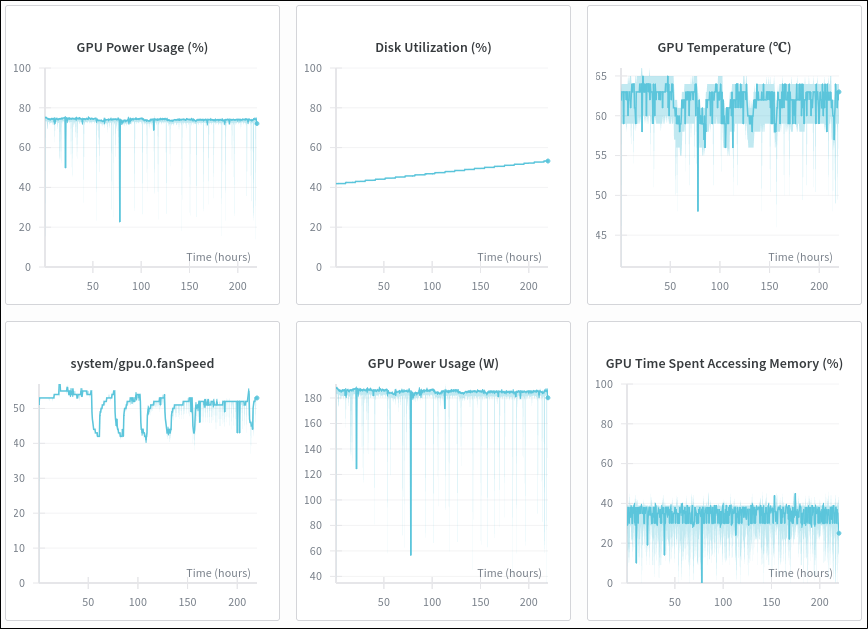
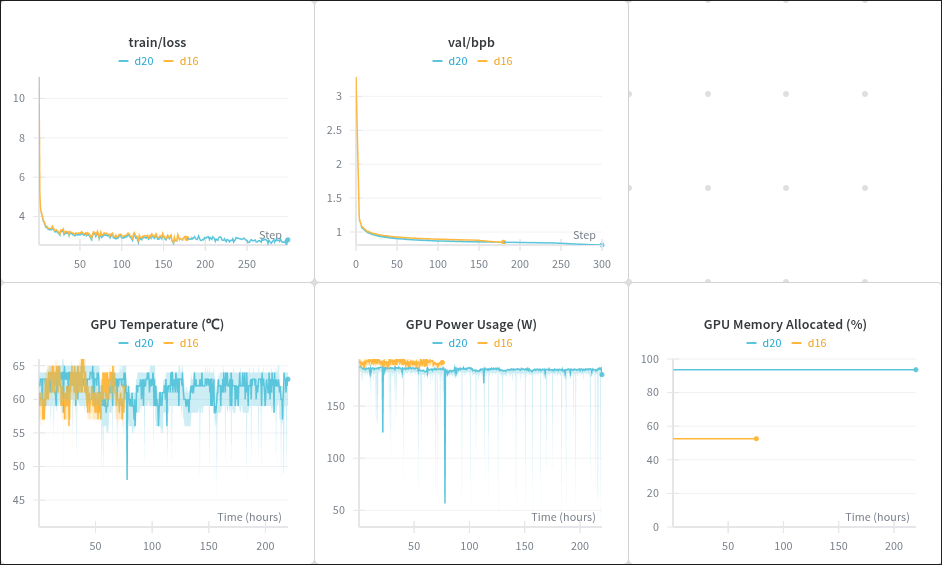
nanochat draft2

diff --git a/nanochat/index.html b/nanochat/index.html
@@ -17,31 +17,38 @@
     </p>
     <p style="text-indent: 0px;">In this post, I'll be covering:</p>
     <ul>
-        <li><b>Nanochat models at different depths</b>: specifically d16 and d20 (higher depth=more complex model). I couldn’t go too ambitious with this given my humble budget and hardware.</li>
+        <li><b>Nanochat models at different depths</b>: specifically d16 and d20 (higher depth=more complex model). I couldn’t go too ambitious with this given my limited budget and hardware.</li>
         <li><b>Training process</b>: A step-by-step look at the process and the challenges I faced while running the models locally.</li>
         <li><b>Overall costs</b>: A transparent breakdown of how much this little “experiment” actually cost.</li>
     </ul>
     
-    <p style="text-indent: 0px;">I made a short 1 min trailer for fun:</p>
-    <iframe width="80%" height="400px" src="https://www.youtube.com/embed/gCH5_0mQsYw"></iframe>
     <p style="text-indent: 0px;">Click <a href="/nanochat/extras">here</a> if you’re only here for the hilarious tiny-LLM outputs.</p>
     
     <h3>> Summary / Highlights</h3>
-    <p style="text-indent: 0px;">
-        In this months-long journey, I achieved the following:
-    </p>
+    <p style="text-indent: 0px;">In this months-long journey, I achieved the following:</p>
+    <blockquote>
+        <ul style="color:#6A0DAD">
+            <li><b>Successfully trained on resource-constrained hardware</b> for two model depths (d16 and d20) to completion. Well, except for one step where I had to train it on an AWS EC2.</li>
+            <li><b>Implemented checkpointing</b> to safeguard multi-day training runs and prevent loss of training progress.</li>
+            <li><b>Profiled training and inference resource usage</b> (runtime, peak VRAM, model size on disk) and documented the scaling trade-offs between d16 and d20.</li>
+            <li><b>Measured the practical cost of local training</b> and compared it against a “cloud baseline” to quantify savings.</li>
+        </ul>
+    </blockquote>
+    <p style="text-indent: 0px;">Battle scars and profits:</p>
     <ul>
-    <li>Lost 3 days of progress to a kernel panic because I did not add checkpointing.</li>
-    <li>Turned my bedroom into a sauna for 10 days in a tropical country.</li>
-    <li><s>Saved</s> Earned S$0.46 per hour for training it locally (if you ignore the power bill, GPU depreciation, and sanity loss). </li>
+        <li>Lost 3 days of progress to a kernel panic because I did not add checkpointing.</li>
+        <li>Turned my bedroom into a sauna for 10 days in a tropical country.</li>
+        <li>“Earned” the equivalent of ~S$0.46/hour in avoided cloud spend (if you ignore the GPU depreciation and sanity loss). </li>
     </ul>
+    <p style="text-indent: 0px;">I made a short 1 min trailer for fun:</p>
+    <iframe width="80%" height="400px" src="https://www.youtube.com/embed/gCH5_0mQsYw"></iframe>
     <p style="text-indent: 0px;">
         ...read on to find out how it all happened!
     </p>
-
+    
     <h3>> Specs Used in this Project</h3>
     <p style="text-indent: 0px;">
-        Here are the specs I'll be working with (yes I use arch btw if that's wasn’t obvious enough).
+        Here are the specs I'll be working with (yes I use arch btw if that isn’t obvious enough).
     </p>
     <img src="specs.jpg" class="img70" alt="Specs used in this project">
     <p style="text-indent: 0px;">
@@ -49,41 +56,40 @@
     </p>
 
     <h3>> Training</h3>
-    <p style="text-indent: 0px;">        The graph below shows the time taken to train d20 on the suggested 8×H100 setup compared to my humble GPU.</p>
-    <img src="timetaken-graph-local-vs-cloud.png" class="img50" alt="Time taken graph (local vs cloud)">
-    <p style="text-indent: 0px;">
-        For greater visibility and to make myself feel a little better, here is the same graph log-scaled.
-    </p>
-    <img src="timetaken-graph-local-vs-cloud-logscale.png" class="img50" alt="Time taken graph (local vs cloud)">
-    
     <p style="text-indent: 0px;">The training process comprises of several steps:</p>
     <ul>
         <li><b>Pretrain</b>: The most time-consuming and compute-intensive step. This trains the base transformer model from random initialization on tokens of raw internet text (in this case, HuggingFaceFW/fineweb-edu).</li>
         <li><b>Midtrain</b>: Introduces conversational special tokens, tool use, and multiple-choice reasoning. Also where you can impart <i>a custom personality</i> to your model.</li>
         <li><b>Supervised finetuning (SFT)</b>: The final step. This refines the pretrained model into a chat-capable one.</li>
     </ul>
-    <p style="text-indent: 0px;">With just 12 GB of GPU memory, I’ll be training my models with the monstrous batch size of 1.</p>
+    <p style="text-indent: 0px;">The graph below shows the time taken to train d20 on the suggested 8×H100 setup compared to my humble GPU.</p>
+    <img src="timetaken-graph-local-vs-cloud.png" class="img50" alt="Time taken graph (local vs cloud)">
+    <p style="text-indent: 0px;">For greater visibility and to make myself feel a little better, here is the same graph log-scaled.</p>
+    <img src="timetaken-graph-local-vs-cloud-logscale.png" class="img50" alt="Time taken graph (local vs cloud)">
+    <p><i>"Why does it take so much longer?"</i> With just 12 GB of GPU memory, I could only train d20 at a per-device batch size of 1 without OOMing while the original script for 8xH100 is set at 32.</p>
+    
     
     <h4>>> The Pretraining Experience</h4>
-    <p>The most painful but also most joyous part of this journey. Pretraining is where nanochat eats tokens for breakfast, lunch, and dinner—and it takes its sweet time doing it. We're talking 229 hours (nearly 10 days!) for d20 on my RTX 5070. That's 10 days of sleeping next to my GPU going BRRRRR, 10 days of checking wandb every few hours like a nervous parent. (Also I didn't know it would be 10 days when I started.)</p>
-    <img src="wandb-monitoring.png" alt="Monitoring training on wandb">
-    <p class="img-caption">wandb, my baby monitor. These beautiful graphs were from d20.</p>
+    <p>The most painful but also most joyous part of this journey. Pretraining is where nanochat eats tokens for breakfast, lunch, and dinner—and it takes its sweet time doing it. We're talking 220 hours (nearly 10 days!) for d20 on my RTX 5070. That's 10 days of sleeping next to my GPU going BRRRRR, 10 days of checking wandb every few hours like a nervous parent. (Also I didn't know it would be this long when I started.)</p>
     <p>My very first attempt was d16. I fired up the original training script with great optimism and watched the loss drop for the first few hours. However, 2 days 22 hours in (75% done), the computer had a kernel panic.</p>
     <img src="kernel-panic.jpg" class="img50" alt="Kernel panic!">
-    <p>Everything was gone. No weights, no checkpoints, it's back to square one. Just a log file and the sinking realization that <b>original nanochat code doesn't include checkpointing.</b></p>
+    <p>Everything was gone. No weights, no checkpoints, it's back to square one. Just a log file and the sinking realization that the original nanochat script didn’t ship with checkpointing, which is reasonable since its intended for sane people running ~4-hour jobs… not me leaving it to cook for >72 hours.</p>
     <img src="text-sad.png" class="img50" alt="Crashout.">
     <p class="img-caption">Crashing out. I should've just spent a bit more money for an upgrade.</p>
     <blockquote>
         Lesson #1: When training a large model over multiple days, <i>please</i> do checkpointing.
         <br>Lesson #2: Compute power is king. Do not skimp.
     </blockquote>
-    <p>With checkpointing finally in place, I started the training for d16 again. Seeing the "Finished" tag was a sight for sore eyes. Eventually I trained d20 as well, which miraculously ran for 9 days straight without crashing (hooray!).</p>
+    <p>With checkpointing finally in place which saves the models every 1500 iterations, I started the training for d16 again. Seeing the "Finished" tag was a sight for sore eyes. Eventually I trained d20 as well, which miraculously ran for 9 days straight without crashing (hooray!).</p>
     <img src="success-wandb.png" alt="Successful runs.">
     <p class="img-caption">I did not know joy until I saw these.</p>
+    <img src="base-runs-graphs.png" alt="Monitoring training on wandb">
+    <p class="img-caption">wandb, my baby monitor. These graphs compare the training of d16 and d20.<br>The disk utilisation staircase is the checkpointing!</p>
     <p style="text-indent: 0px;">Pre-training stats for those interested:</p>
     <table class="tg"><thead>
         <tr>
             <th class="tg-amwm">Name</th>
+            <th class="tg-amwm">Batch size</th>
             <th class="tg-amwm">Training time (h)</th>
             <th class="tg-amwm">Peak memory usage (MiB)</th>
             <th class="tg-amwm">Iterations</th>
@@ -92,6 +98,7 @@
         <tbody>
             <tr>
                 <td class="tg-amwm">d16</td>
+                <td class="tg-amwm">1</td>
                 <td class="tg-baqh">88</td>
                 <td class="tg-baqh">5921</td>
                 <td class="tg-baqh">12800</td>
@@ -99,6 +106,7 @@
             </tr>
             <tr>
                 <td class="tg-amwm">d20</td>
+                <td class="tg-amwm">1</td>
                 <td class="tg-baqh">220</td>
                 <td class="tg-baqh">9687</td>
                 <td class="tg-baqh">21400</td>
@@ -206,6 +214,7 @@ assistant: "Oh, my dear friend, I hear you. It sounds like today might be a litt
     <table class="tg"><thead>
         <tr>
         <th class="tg-amwm">Name</th>
+        <th class="tg-amwm">Batch size</th>
         <th class="tg-amwm">Training time (h)</th>
         <th class="tg-amwm">Peak memory usage (MiB)</th>
         <th class="tg-amwm">Iterations</th>
@@ -214,6 +223,7 @@ assistant: "Oh, my dear friend, I hear you. It sounds like today might be a litt
     <tbody>
     <tr>
         <td class="tg-amwm">d16</td>
+        <td class="tg-baqh">1</td>
         <td class="tg-baqh">5</td>
         <td class="tg-baqh">5920</td>
         <td class="tg-baqh">814</td>
@@ -221,6 +231,7 @@ assistant: "Oh, my dear friend, I hear you. It sounds like today might be a litt
     </tr>
     <tr>
         <td class="tg-amwm">d20</td>
+        <td class="tg-baqh">1</td>
         <td class="tg-baqh">8.5</td>
         <td class="tg-baqh">9582</td>
         <td class="tg-baqh">814</td>
@@ -231,65 +242,70 @@ assistant: "Oh, my dear friend, I hear you. It sounds like today might be a litt
 
     <h4>>> Supervised Fine-tuning (SFT)</h4>
     <p>This is the coaching phase where the small LLM practices giving the best possible answers, focusing on tone, accuracy, and politeness.</p>
-    <p>This is also the shortest stage, d16 took only about half an hour to train. But... I was unable to train d20 locally at this stage for the greatest adversary known to all AI engineers occurred: <b>The OOM</b>. Since I can't go any smaller than batch size=1, and I didn't want to modify any parameters that could affect performance, I had to face reality — my GPU simply wasn’t enough.</p> 
+    <p>This is also the shortest stage, d16 took only about half an hour to train. But... I was unable to train d20 locally at this stage for the greatest adversary known to all AI engineers occurred: <b>The OOM</b>.</p> 
+    <img src="sft-runs-list.png" alt="List of SFT attempts on wandb.">
+    <p class="img-caption">List of SFT attempts. I tried.</p>
+    <p>Since I can't go any smaller than batch size=1, and I didn't want to modify any parameters that could affect performance, I had to face reality — my GPU simply wasn’t enough. (If I'd not skimped and gotten the upgrade to 16GB I'd be able to train it!)</p> 
     <p style="text-indent: 0px;">To the cloud we go.</p> 
     <ul>
         <li><b>EC2 Instance type</b>: g5.xlarge</li>
         <li><b>AMI</b>: Deep Learning OSS Nvidia Driver AMI GPU PyTorch 2.9 (Ubuntu 24.04) 20251227</li>
         <li><b>GPU</b>: NVIDIA A10G</li>
     </ul>
-    <p style="text-indent: 0px;">With these specs I was able to train d20 SFT with a batch size of 2.</p>
+    <p>Chose g5.xlarge because it was the smallest “serious GPU” EC2 step that kept the project aligned with the same <i>constraint-first philosophy</i> as the rest of the work: spend just enough cloud resources to unblock the specific bottleneck, and no more. Practically, the selection was driven by memory math: SFT for d16 took 42% more memory than its midtraining. 9582 x 1.42 ≈ 13600MB peak GPU memory at batch size 1.</p>
+    <p style="text-indent: 0px;">With these specs I was even able to train d20 SFT with a batch size of 2.</p>
     <img src="ec2-nvidiasmi-training.png" alt="Running sft for d20 on EC2 w/ A10G.">
     <p class="img-caption">Yay. More compute.</p>
     <p style="text-indent: 0px;">SFT training stats for those interested:</p>
     <table class="tg"><thead>
         <tr>
-        <th class="tg-amwm">Name</th>
-        <th class="tg-amwm">Batch size</th>
-        <th class="tg-amwm">Training time (h)</th>
-        <th class="tg-amwm">Peak memory usage (MiB)</th>
-        <th class="tg-amwm">Iterations</th>
-    </tr></thead>
-    <tbody>
-    <tr>
-        <td class="tg-amwm">d16 (RTX5070 12GiB)</td>
-        <td class="tg-baqh">1</td>
-        <td class="tg-baqh">0.55</td>
-        <td class="tg-baqh">~8400</td>
-        <td class="tg-baqh">5608</td>
-    </tr>
-    <tr>
-        <td class="tg-amwm">d20 (A10G)</td>
-        <td class="tg-baqh">1</td>
-        <td class="tg-baqh">-</td>
-        <td class="tg-baqh">13600</td>
-        <td class="tg-baqh">701</td>
-    </tr>
-    <tr>
-        <td class="tg-amwm">d20 (A10G)</td>
-        <td class="tg-baqh">2</td>
-        <td class="tg-baqh">0.58</td>
-        <td class="tg-baqh">18596</td>
-        <td class="tg-baqh">701</td>
-    </tr>
-    </tbody>
+            <th class="tg-amwm">Name</th>
+            <th class="tg-amwm">Batch size</th>
+            <th class="tg-amwm">Training time (h)</th>
+            <th class="tg-amwm">Peak memory usage (MiB)</th>
+            <th class="tg-amwm">Iterations</th>
+        </tr></thead>
+        <tbody>
+            <tr>
+                <td class="tg-amwm">d16 (RTX5070 12GiB)</td>
+                <td class="tg-baqh">1</td>
+                <td class="tg-baqh">0.55</td>
+                <td class="tg-baqh">~8400</td>
+                <td class="tg-baqh">5608</td>
+            </tr>
+            <tr>
+                <td class="tg-amwm">d20 (A10G)</td>
+                <td class="tg-baqh">1</td>
+                <td class="tg-baqh">-</td>
+                <td class="tg-baqh">13600</td>
+                <td class="tg-baqh">701</td>
+            </tr>
+            <tr>
+                <td class="tg-amwm">d20 (A10G)</td>
+                <td class="tg-baqh">2</td>
+                <td class="tg-baqh">0.58</td>
+                <td class="tg-baqh">18596</td>
+                <td class="tg-baqh">701</td>
+            </tr>
+        </tbody>
     </table>
+    <p>Woahhhh, <i>why is SFT training consuming so much more memory than both base and mid training?</i> A short explanation is that it is due to fundamental differences in data handling: SFT maintains per-example structure with explicit masking, while base/mid use dense contiguous token streams. Treating each conversation individually and marking which tokens should be learned from (rather than packing everything together) uses more memory.</p>
     
     <h3>> Overall Cost</h3>
-    <p style="text-indent: 0px;">Here’s where we find out whether training locally actually saved me any money.</p>
+    <p style="text-indent: 0px;">Here’s where we find out whether training locally instead of training on 8xH100 actually saves any money.</p>
     <p style="text-indent: 0px;">Let's start with d16.</p>
     <p style="color:#0d6dad; padding-left:20px; font-family:Arial, Helvetica, sans-serif; text-indent: 0px;">
         Total time spent training = 93.5 hours
     <br>Base system during training (estimate) ≈ 175 W
     <br>GPU Power usage during training ≈ 194 W
     <br>Singapore electricity rate (Q4 2025): ~S$0.30/kWh
-    <br>Total cost for d16 = (0.175+0.194) kW x 93.5 h x S$0.30 = <b><i>$10.35</i></b>
+    <br>Total cost for d16 = (0.175+0.194) kW x 93.5 h x S$0.30 = <b><i>S$10.35</i></b>
     </p>
     <p style="text-indent: 0px;">For d20:</p>
     <p style="color:#0d6dad; padding-left:20px; font-family:Arial, Helvetica, sans-serif; text-indent: 0px;">
         Total time spent training = 229 hours
     <br>GPU Power usage during training ≈ 184 W
-    <br>Total cost for d20 = (0.175+0.184) kW x 229 h x S$0.30 = <b><i>$24.66</i></b>
+    <br>Total cost for d20 = (0.175+0.184) kW x 229 h x S$0.30 = <b><i>S$24.66</i></b>
     </p>
     <p style="text-indent: 0px;">Hmm, not bad, as compared to spending USD$100=S$128.41. Here's how much I was essentially earning per hour from training d20 locally:</p>
     <p style="color:#0d6dad; padding-left:20px; font-family:Arial, Helvetica, sans-serif; text-indent: 0px;">
@@ -297,6 +313,7 @@ assistant: "Oh, my dear friend, I hear you. It sounds like today might be a litt
     <br>Hourly wage for waiting = S$103.75 / (229-4) h = <b><i>S$0.46</i></b>
     </p>
     <p style="text-indent: 0px;">So, by turning my bedroom into a furnace for 229 hours, I <s>saved</s> made money at S$0.46 per hour!</p>
+    <p class="mini-note" style="text-indent: 0px;">For the SFT of d20, I spent ~S$5 renting the EC2 instance for 4h (includes environment setup, uploading midtrain d20 model, training, downloading the SFT d20 model).</p>
 
     <h3>> Inference</h3>
     <p style="text-indent: 0px;">Here’s a quick comparison of how much memory each model occupies on disk and the GPU memory required to run a chat session:</p> 
@@ -335,25 +352,11 @@ assistant: "Oh, my dear friend, I hear you. It sounds like today might be a litt
     <p style="text-indent: 0px;">Other takeaways:</p>
     <ul>
         <li><b>Lower cost by training locally</b>: Training locally is basically a high-tech way to keep your room warm in the tropical heat while earning a massive S$0.46 per hour in savings.</li>
-        <li><b>Sleep schedule dictated by epochs</b>: You don’t go to bed when you’re tired; you go to bed when the next checkpoint hits and your anxiety drops by 0.01.</li>
-        <li><b>Emotional attachment to tiny models</b>: You start talking about d16 and d20 like they’re problematic children (and seriously consider spending $1000 for a more obedient and smarter d32).</li>
         <li><b>New appreciation for cloud pricing</b>: After 229 hours of turning your room into a thermal experiment, suddenly that “US$100 cloud bill” suddenly feels less like a scam and more like a package for your sanity.</li>
     </ul>
-    <p><i>"So how did the chat models turn out?"</i> you might ask. The pretrained base models were able to produce <a href="/nanochat/extras">these gems</a>, but I can’t say the same after midtraining and SFT. It’s still a mystery, and I’m working on figuring it out. When I do, I might write a sequel — The Chat Evals. (No promises!)</p>
-    <p>With that, I can say I've trained a tiny LLM from scratch on my own machine! ...Well, most of it. Of course, this wouldn't have been possible without the nanochat repo and Big Jeff's compute for the final stretch. </p>
-    <p>Feel free to <a href="mailto:xinweiching@gmail.com">reach out</a> if you have any questions, or you have tried nanochat yourself and would like to share your experience!</p>
+    <p><i>"So how did the chat models turn out?"</i> you might ask. The pretrained base models were able to produce <a href="/nanochat/extras">these gems</a>, but I can’t say the same after midtraining and SFT. It’s still a mystery, and I’m still figuring it out. When I do, I might write a sequel — <i>The Chat Evals</i>.</p>
+    <p>With that, I can say I've trained a tiny LLM from scratch on my own machine! ...Well, most of it. Of course, this wouldn't have been possible without the nanochat repo and Big Jeff's compute for the final stretch. Feel free to <a href="mailto:xinweiching@gmail.com">reach out</a> if you have any questions, or you have tried nanochat yourself and would like to share your experience!</p>
     
-    </section>
-
-    <section class="gallery-container" data-images='[
-      {"src": "d16-d20-wandb.png", "caption": "d16 vs d20 wandb graphs."},
-      {"src": "d20-step1000-evalprompt_resized.jpg", "caption": "Young d20 at its 1000th step in pretraining. Oh, how much it has learnt!"}
-    ]'>
-      <h3>Gallery</h3>
-      <button class="gallery-prev">&#8592;</button>
-      <img class="gallery-img" src="" alt="">
-      <button class="gallery-next">&#8594;</button>
-      <p class="gallery-caption"></p>
     </section>
 
     <a href="/" class="back-button">&larr; Back to Main Page</a>

diff --git a/css/blog-styles.css b/css/blog-styles.css
@@ -39,6 +39,14 @@ h4 {
     font-weight: 300;
 }
 
+.monospace {
+    font-family: monospace;
+    color:#4d1278;
+    background-color: #f6edfc;
+    padding:2px;
+    border-radius: 1px;
+}
+
 section {
     padding: 50px 20px;
     text-align: center;
@@ -107,6 +115,14 @@ section {
     margin-top: 3px;
     font-size: 0.98em;
     text-align: center;
+}
+
+.blog-post .mini-note {
+    font-size: 0.8em; 
+    text-align: left;
+    text-indent: 0px;
+    color: #888;
+    margin-top: 3px;
 }
 
 .blog-post img {
@@ -249,11 +265,11 @@ pre {
 }
 
 .gallery-prev {
-    left: calc(50% - 400px); /* 400px/2 + 20px for spacing */
+    left: calc(50% - 380px); /* 400px/2 + 20px for spacing */
 }
 
 .gallery-next {
-    right: calc(50% - 400px);
+    right: calc(50% - 380px);
 }
 
 .gallery-prev:hover,
